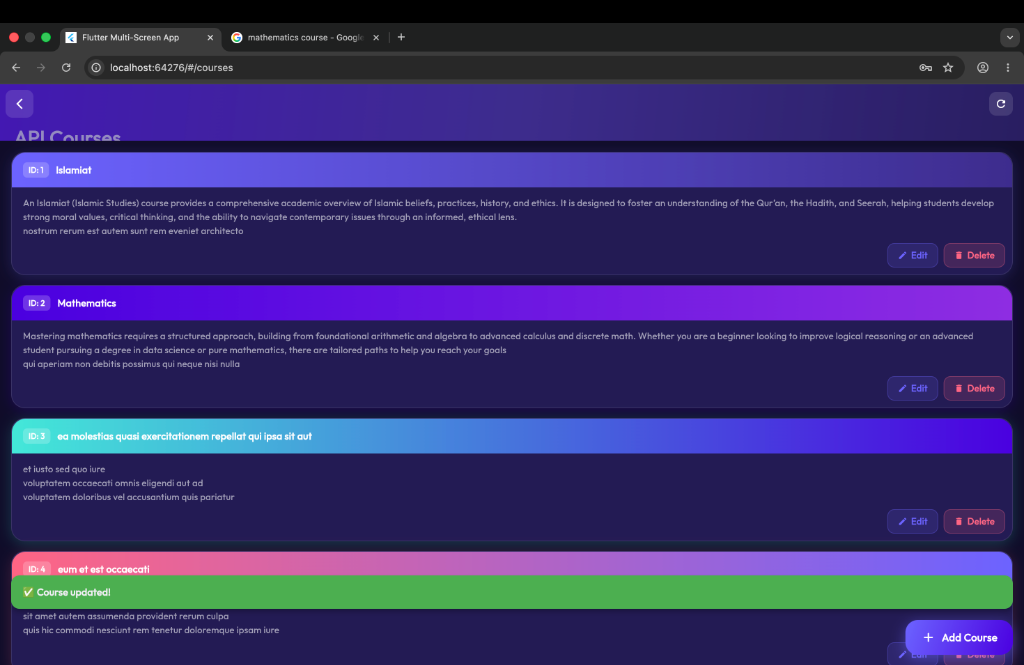
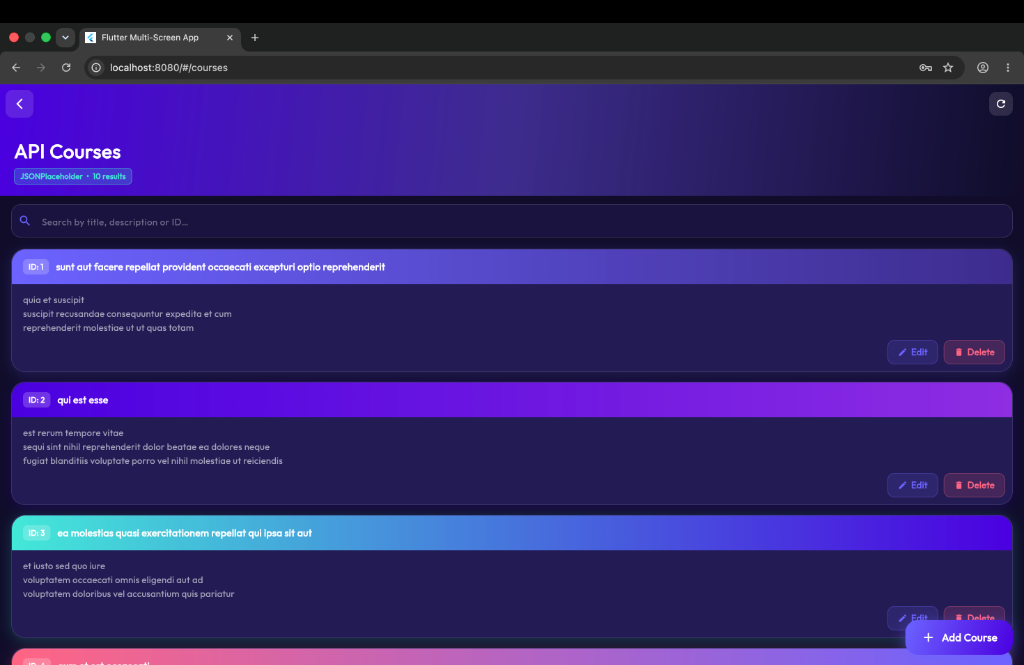
docs: Add real-time search & edit dialog screenshots and update mobile responsive note

diff --git a/README.md b/README.md
@@ -48,10 +48,15 @@ Here is the complete visual flow of the application, representing the high-fidel
 | ![Add Course Form](screenshots_crud/s7_add_course.png) | ![Offline Mode & Local Cache](screenshots_crud/s8_offline_cache.png) |
 | Features a custom animated bottom sheet with comprehensive input text forms to create mock POST items. | Renders locally cached data from Hive storage when network is offline, with an amber banner, sync timestamp, and offline tag. |
 
+| **9. Real-Time Search & Filter** | **10. Edit Course Dialog** |
+|:---:|:---:|
+| ![Search & Filter](screenshots_crud/s9_search_filter.png) | ![Edit Course Form](screenshots_crud/s10_edit_course.png) |
+| Allows filtering courses by title, description, or ID instantly as you type, updating the item count badge in real-time. | Displays a pre-filled dialog to modify course title and description, updates state immediately, and triggers API PUT call. |
+
 > [!NOTE]
-> **Universal UI Fidelity (Emulator & Desktop Web)**
+> **Universal UI Fidelity (Emulator, Mobile, and Web)**
 > 
-> The application UI is built using responsive Material Design 3 guidelines. While these screenshots are captured on a **Desktop Web Browser** and the **Android Emulator** for pristine clarity, the codebase runs **identically and flawlessly on any Android/iOS physical device**. The exact same widgets, layouts, gradients, and overlays render perfectly across all screen sizes.
+> The application UI is built using fully responsive Material Design 3 guidelines. Although these demo screenshots are captured using a **Desktop Web Browser** for high-resolution layout clarity, the application is designed primarily as a **Mobile Application**. It compiles and runs **identically, responsively, and flawlessly on physical iOS/Android devices and emulators**. The exact same widgets, gradients, overlays, and dialogs dynamically scale to fit mobile screen aspect ratios perfectly.
 
 ---
 
